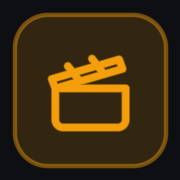
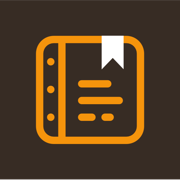
Add files via upload

diff --git a/index.html b/index.html
@@ -2270,7 +2270,18 @@
     <header class="app-header">
       <div class="brand-box">
         <div class="brand-icon">
-          <svg width="26" height="26" viewBox="0 0 24 24" fill="none" stroke="currentColor" stroke-width="2" stroke-linecap="round" stroke-linejoin="round"><path d="M20.2 6 3 11l-.9-2.4c-.3-1.1.3-2.2 1.3-2.5l13.5-4c1.1-.3 2.2.3 2.5 1.3Z"/><path d="m6.2 5.3 3.1 3.9"/><path d="m12.4 3.4 3.1 4"/><path d="M3 11h18v8a2 2 0 0 1-2 2H5a2 2 0 0 1-2-2Z"/></svg>
+          <svg width="34" height="34" viewBox="88 86 336 336" fill="none" xmlns="http://www.w3.org/2000/svg">
+            <rect x="114" y="112" width="284" height="284" rx="44" ry="44" fill="none" stroke="#f59e0b" stroke-width="21"/>
+            <rect x="167" y="112" width="21" height="284" fill="#f59e0b"/>
+            <circle cx="145.5" cy="175" r="10.5" fill="#f59e0b"/>
+            <circle cx="145.5" cy="254" r="10.5" fill="#f59e0b"/>
+            <circle cx="145.5" cy="333" r="10.5" fill="#f59e0b"/>
+            <polygon points="289,101.5 351,101.5 351,197 320,164 289,197" fill="#ffffff"/>
+            <rect x="222" y="228" width="95" height="21" rx="10.5" fill="#f59e0b"/>
+            <rect x="222" y="275" width="127" height="21" rx="10.5" fill="#f59e0b"/>
+            <rect x="222" y="322" width="50" height="21" rx="10.5" fill="#f59e0b"/>
+            <rect x="288" y="322" width="36" height="21" rx="10.5" fill="#f59e0b"/>
+          </svg>
         </div>
         <div>
           <h1 class="brand-title">Set<span>Bible</span></h1>
@@ -3278,7 +3289,7 @@
   <div id="confirm-modal" class="modal-backdrop hidden" style="z-index: 80;">
     <div class="modal-card" style="max-width:400px;">
       <div class="modal-header">
-        <h2 class="modal-title" style="color:#f87171;" data-i18n="modal_confirm_delete">CONFIRMAR ELIMINACIÓN</h2>
+        <h2 id="confirm-modal-title" class="modal-title" style="color:#f87171;" data-i18n="modal_confirm_delete">CONFIRMAR ELIMINACIÓN</h2>
       </div>
       <div class="modal-body">
         <p id="confirm-text" style="margin:0; font-size:16px; color:#e5e7eb; line-height:1.45;"></p>
@@ -3532,6 +3543,8 @@
         modal_bulk_actions_title: 'HERRAMIENTAS AVANZADAS',
         bulk_optimize_photos_title: 'Optimizar / recomprimir fotos',
         bulk_optimize_photos_desc: 'Reduce el peso de todas las fotos del proyecto para aligerar los respaldos sin borrar registros.',
+        bulk_optimize_photos_btn: 'Optimizar',
+        modal_confirm_action: 'CONFIRMAR ACCIÓN',
         confirm_bulk_optimize_photos: '¿Optimizar y recomprimir todas las fotos del proyecto para reducir su peso?',
         toast_bulk_photos_optimized: '{count} fotos optimizadas',
         toast_bulk_no_photos: 'No hay fotos en este proyecto',
@@ -3832,6 +3845,8 @@
         modal_bulk_actions_title: 'ADVANCED TOOLS',
         bulk_optimize_photos_title: 'Optimize / recompress photos',
         bulk_optimize_photos_desc: 'Reduces file size of all project photos to make backups lighter without deleting records.',
+        bulk_optimize_photos_btn: 'Optimize',
+        modal_confirm_action: 'CONFIRM ACTION',
         confirm_bulk_optimize_photos: 'Optimize and recompress all photos in this project to reduce size?',
         toast_bulk_photos_optimized: '{count} photos optimized',
         toast_bulk_no_photos: 'No photos in this project',
@@ -4132,6 +4147,8 @@
         modal_bulk_actions_title: 'FERRAMENTAS AVANÇADAS',
         bulk_optimize_photos_title: 'Otimizar / recomprimir fotos',
         bulk_optimize_photos_desc: 'Reduz o tamanho de todas as fotos do projeto para tornar os backups mais leves.',
+        bulk_optimize_photos_btn: 'Otimizar',
+        modal_confirm_action: 'CONFIRMAR AÇÃO',
         confirm_bulk_optimize_photos: 'Otimizar e recomprimir todas as fotos deste projeto?',
         toast_bulk_photos_optimized: '{count} fotos otimizadas',
         toast_bulk_no_photos: 'Não há fotos neste projeto',
@@ -4432,6 +4449,8 @@
         modal_bulk_actions_title: 'STRUMENTI AVANZATI',
         bulk_optimize_photos_title: 'Ottimizza / ricomprimi foto',
         bulk_optimize_photos_desc: 'Riduce il peso di tutte le foto del progetto per alleggerire i backup.',
+        bulk_optimize_photos_btn: 'Ottimizza',
+        modal_confirm_action: 'CONFERMA AZIONE',
         confirm_bulk_optimize_photos: 'Ottimizzare e ricomprimere tutte le foto di questo progetto?',
         toast_bulk_photos_optimized: '{count} foto ottimizzate',
         toast_bulk_no_photos: 'Nessuna foto in questo progetto',
@@ -4732,6 +4751,8 @@
         modal_bulk_actions_title: 'ERWEITERTE TOOLS',
         bulk_optimize_photos_title: 'Fotos optimieren / komprimieren',
         bulk_optimize_photos_desc: 'Reduziert die Dateigröße aller Projektfotos für schlankere Backups.',
+        bulk_optimize_photos_btn: 'Optimieren',
+        modal_confirm_action: 'AKTION BESTÄTIGEN',
         confirm_bulk_optimize_photos: 'Alle Fotos in diesem Projekt optimieren und neu komprimieren?',
         toast_bulk_photos_optimized: '{count} Fotos optimiert',
         toast_bulk_no_photos: 'Keine Fotos in diesem Projekt',
@@ -5032,6 +5053,8 @@
         modal_bulk_actions_title: 'OUTILS AVANCÉS',
         bulk_optimize_photos_title: 'Optimiser / recompresser les photos',
         bulk_optimize_photos_desc: 'Réduit la taille de toutes les photos du projet pour alléger les sauvegardes.',
+        bulk_optimize_photos_btn: 'Optimiser',
+        modal_confirm_action: 'CONFIRMER L\'ACTION',
         confirm_bulk_optimize_photos: 'Optimiser et recompresser toutes les photos de ce projet ?',
         toast_bulk_photos_optimized: '{count} photos optimisées',
         toast_bulk_no_photos: 'Aucune photo dans ce projet',
@@ -5783,7 +5806,24 @@
     }
 
     const confirmModal = document.getElementById('confirm-modal');
-    function askConfirmation(message, onConfirm) {
+    function askConfirmation(message, onConfirm, options = {}) {
+      const isDanger = options.isDanger !== false;
+      const titleEl = document.getElementById('confirm-modal-title');
+      const okBtn = document.getElementById('btn-confirm-ok');
+
+      if (titleEl) {
+        titleEl.textContent = options.title || t(isDanger ? 'modal_confirm_delete' : 'modal_confirm_action');
+        titleEl.style.color = isDanger ? '#f87171' : 'var(--amber)';
+      }
+
+      if (okBtn) {
+        okBtn.textContent = options.confirmText || t(isDanger ? 'btn_delete' : 'batch_btn_confirm');
+        okBtn.style.background = isDanger
+          ? '#ef4444'
+          : 'linear-gradient(135deg, var(--amber), var(--amber-dark))';
+        okBtn.style.color = isDanger ? '#fff' : '#000';
+      }
+
       document.getElementById('confirm-text').textContent = message;
       pendingConfirmAction = onConfirm;
       confirmModal.classList.remove('hidden');
@@ -8094,6 +8134,10 @@
         await renderCharactersList();
         await updateCatalogCaches();
         showToast(t('toast_bulk_chars_unpinned'));
+      }, {
+        isDanger: false,
+        title: t('modal_confirm_action'),
+        confirmText: t('bulk_unpin_chars_btn')
       });
     });
 
@@ -8199,6 +8243,10 @@
         await updateCatalogCaches();
         await renderTakes();
         showToast(t('toast_bulk_photos_optimized', { count: optimizedCount }));
+      }, {
+        isDanger: false,
+        title: t('modal_confirm_action'),
+        confirmText: t('bulk_optimize_photos_btn')
       });
     });
 

diff --git a/sw.js b/sw.js
@@ -1,4 +1,4 @@
-const CACHE_NAME = 'setbible-v109';
+const CACHE_NAME = 'setbible-v111';
 const LOCAL_ASSETS = [
   './',
   './index.html',
